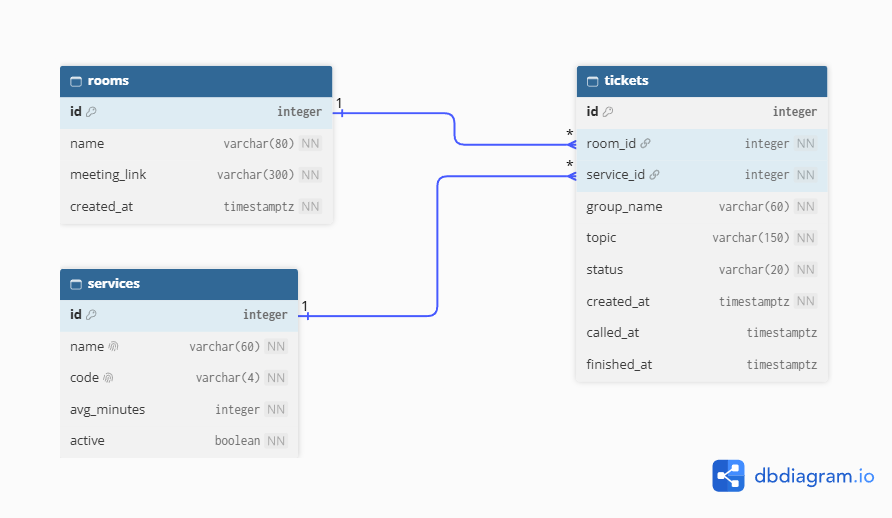
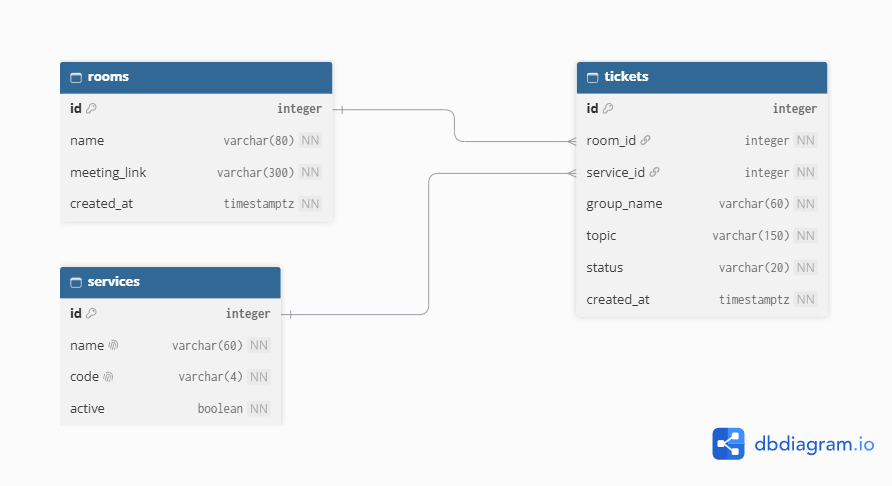
finished self-review of schema (#3)

diff --git a/my-app/docs/week4/schema-review.md b/my-app/docs/week4/schema-review.md
@@ -1,0 +1,76 @@
+# ClassQ schema self-review (Week 4)
+
+I reviewed [`schema.md`](schema.md) as if someone else had drawn it, using the six questions from the assignment. The changes below are already applied to `schema.md`, `classq.dbml` and the ERD.
+
+---
+
+## Question 1: Coverage
+
+Every requirement with **Stores data? = Yes** and still planned has a table or column. I also checked each Week 3 persona task to verify the coverage:
+
+| Persona task | Data it needs | Where |
+| --- | --- | --- |
+| Marcus: join with group name, topic and service | name, topic, service | `tickets.group_name`, `tickets.topic`, `tickets.service_id` |
+| Marcus: see his place and status | status, order of joining | `tickets.status`, `tickets.created_at` |
+| Marcus: open the call when called | meeting link | `rooms.meeting_link`, reached through `tickets.room_id` |
+| Marcus: leave the queue | a "left" state | `tickets.status` |
+| Sir Bustos: view the queue in order of arrival | joining time | `tickets.created_at` |
+| Sir Bustos: call the next group | status | `tickets.status` |
+| Sir Bustos: mark served or no-show | status | `tickets.status` |
+| Sir Bustos: manage services and the meeting link | service fields, link | `services.*`, `rooms.meeting_link` |
+
+## Question 2: One fact in one place
+
+A service's name and code exist only in `services`, and the meeting link only in `rooms`. A group's name and topic are repeated on every ticket the group creates, **on purpose**, because they describe each visit and can differ every time. I found no other duplicates.
+
+## Question 3: Facts, not results
+
+There is no stored position or "people ahead" count. They are computed from `status` and `created_at` when the page is built.
+
+## Question 4: Bad data
+
+| Mistake a persona could make | What stops it |
+| --- | --- |
+| Marcus taps *Enter Queue* twice, or opens a second tab | The disabled button (Week 3) **and** the unique index on active group names (entry 3) |
+| Leaves the name blank, or types only spaces | `CHECK (length(trim(group_name)) > 0)`, plus Flask validation |
+| Types a topic far too long | `varchar(150)` |
+| Picks the wrong service | **Nothing in the database can know the intent.** The foreign key only proves the service exists. The disabled "Choose Service..." option and the service shown on his ticket let him notice it. |
+| Sir Bustos saves a meeting link with a typo such as `meet.google.com/abc` | `CHECK (meeting_link ~ '^https?://')` catches a missing `http(s)://` but not a wrong address |
+| Two services with the same name or code | `UNIQUE` on `services.name` and `services.code` |
+| A ticket gets a status the app does not know | `CHECK (status IN (...))` |
+
+## Question 5: Deletes
+
+All foreign keys are `RESTRICT`, on purpose: a service or room that has tickets cannot be removed, so old tickets cannot lose their parent. But the *app* can still erase history by deleting tickets (entry 4).
+
+## Question 6: Types
+
+Every moment in time is a `timestamptz`. *Active* is a `boolean`, and nothing numeric is stored as text. The status is text, but a CHECK limits it to five values.
+
+---
+
+## Entries
+
+### Entry 1: Coverage
+
+> **Works well:** The nouns table traced every *Stores data? = Yes* requirement to a table or column, so I could see which table each feature writes to. <br>
+> **Problem:** `services.code` (the PD, LC, GR prefix in ticket labels) had no FR requirement behind it.<br>
+> **Change:** Added **FR-11** to `requirements.md` and to the nouns table in `schema.md`. The column stays.
+
+### Entry 2: Columns for a dropped requirement
+
+> **Works well:** Positions and counts are computed, never stored, so they cannot go out of date when someone leaves the line. <br>
+> **Problem:** My first draft stored `services.avg_minutes`, `tickets.called_at` and `tickets.finished_at`, and a CHECK to keep them in step with `status`. All of them existed only for the estimated countdown (FR-07), which I then dropped. Nothing would ever read them. Found by questions 1 and 3. <br>
+> **Change:** Removed the three columns and the status/time CHECK from `schema.md` and `classq.dbml`. `status` alone says where a ticket is. If I ever bring back the countdown, I will add the columns with a migration, which is the safe way to change a table that already holds data.
+
+### Entry 3: Double tap
+
+> **Works well:** CHECKs on the group name, topic, meeting link and status stop the empty or impossible values my personas are most likely to type. <br>
+> **Problem:** Dropping the email in Part 2 also dropped my protection against the same person joining twice. The Week 3 disabled button only works in the browser, so a second tab or a retry could still create two tickets. Found by question 4. <br>
+> **Change:** Added the partial unique index `ux_tickets_active_group_name` (`UNIQUE (room_id, lower(group_name)) WHERE status IN ('waiting', 'called')`). A group name can only be in line once at a time, and it is free again as soon as its ticket is finished. The trade-off is that two real groups with the same name cannot be in line together, which I accept, since the teacher could not tell them apart anyway. Flask will show "That group is already in the queue." when it happens.
+
+### Entry 4: Deletes that destroy history
+
+> **Works well:** `RESTRICT` on every foreign key means a service or room that has tickets cannot be removed by mistake, so staff reports keep their data. <br>
+> **Problem:** The delete rules protect the *parents*, but the app deletes the *children*. **Delete** (FR-10) and Week 3's **Clear Queue** both erase tickets, including served and no-show ones that later reports could need. Found by question 5. <br>
+> **Change:** I kept the schema as it is. FR-10 stays, because it is for mistaken and test tickets and already asks for confirmation. **Clear Queue** changes in Part 9 to remove only tickets still *waiting* or *called*, so finished tickets stay as the session record, and its confirm text will say so.

diff --git a/my-app/docs/week4/schema.md b/my-app/docs/week4/schema.md
@@ -1,4 +1,4 @@
-# ClassQ schema design (Week 4)
+# ClassQ Schema Design
 
 Designed from the requirements marked **Stores data? = Yes** in [`docs/requirements.md`](../requirements.md).
 
@@ -14,10 +14,9 @@ Designed from the requirements marked **Stores data? = Yes** in [`docs/requireme
 | FR-04 | A teacher can **call the next** group. | called time | `tickets.status`, `tickets.called_at` |
 | FR-05 | A student sees real-time **status** updates on their **ticket**. | ticket, status | `tickets`, `tickets.status` |
 | FR-06 | A student can **leave** the queue, or a teacher can mark a ticket **served** or **no-show**. | status, finished time | `tickets.status` (adds `left`), `tickets.finished_at` |
-| FR-07 | An **estimated countdown** based on **average call duration**. | average duration | `services.avg_minutes`, *(computed from `called_at` and `finished_at`)* |
-| FR-08 | *(Dropped this semester.)* Export of queue **history** and **attendance**. | history, attendance | *(no new data: `tickets` already keeps every status and time)* |
 | FR-09 | A teacher can manage **services**: add, rename, set **average duration**, toggle **active**. | service, name, average duration, active | `services`, `services.name`, `services.avg_minutes`, `services.active` |
 | FR-10 | A teacher can permanently **delete** a mistaken ticket. | ticket | *(a hard delete of one `tickets` row; no new column)* |
+| FR-11 | *(Added in the Part 3 review.)* Every ticket **label** starts with its service **code** (PD, LC, GR). | label, code | `services.code` *(the label is built when needed, never stored)* |
 
 ---
 
@@ -26,8 +25,8 @@ Designed from the requirements marked **Stores data? = Yes** in [`docs/requireme
 | Table | Columns |
 | --- | --- |
 | `rooms` | id, name, meeting_link, created_at |
-| `services` | id, name, code, avg_minutes, active |
-| `tickets` | id, room_id, service_id, group_name, topic, status, created_at, called_at, finished_at |
+| `services` | id, name, code, active |
+| `tickets` | id, room_id, service_id, group_name, topic, status, created_at
 
 **Where the setting-specific fields went**:
 
@@ -48,8 +47,7 @@ Designed from the requirements marked **Stores data? = Yes** in [`docs/requireme
 | rooms | created_at | timestamptz | NOT NULL DEFAULT now() | Time zone safe; set by the database |
 | services | id | integer, generated always as identity | PRIMARY KEY | Generated by the database |
 | services | name | varchar(60) | NOT NULL UNIQUE | No two services with the same name (FR-09) |
-| services | code | varchar(4) | NOT NULL UNIQUE, CHECK (code ~ '^[A-Z]{2,4}$') | Short prefix for ticket labels; capital letters only |
-| services | avg_minutes | integer | NOT NULL DEFAULT 15, CHECK (avg_minutes > 0) | Rejects impossible call lengths (FR-07, FR-09) |
+| services | code | varchar(4) | NOT NULL UNIQUE, CHECK (code ~ '^[A-Z]{2,4}$') | Short prefix for ticket labels; capital letters only (FR-11) |
 | services | active | boolean | NOT NULL DEFAULT true | A service can be switched off without deleting its history (FR-09) |
 | tickets | id | integer, generated always as identity | PRIMARY KEY | The ticket number: the database hands out every number once, so no duplicates (NFR-06) |
 | tickets | room_id | integer | NOT NULL, FOREIGN KEY → rooms(id) ON DELETE RESTRICT | A ticket always belongs to a room |
@@ -58,8 +56,10 @@ Designed from the requirements marked **Stores data? = Yes** in [`docs/requireme
 | tickets | topic | varchar(150) | NOT NULL, CHECK (length(trim(topic)) > 0) | Matches the 150-character limit in the join form (FR-02) |
 | tickets | status | varchar(20) | NOT NULL DEFAULT 'waiting', CHECK (status IN ('waiting', 'called', 'served', 'no-show', 'left')) | Only the five states the app uses (FR-03, FR-04, FR-06) |
 | tickets | created_at | timestamptz | NOT NULL DEFAULT now() | When the group joined: the order of the line |
-| tickets | called_at | timestamptz | NULL | Empty until the ticket is called (FR-04) |
-| tickets | finished_at | timestamptz | NULL, CHECK (finished_at >= called_at) | Empty until served or no-show; with `called_at` it gives call length (FR-07). A NULL passes the check. |
+
+| Table | Rule | Definition | Why |
+| --- | --- | --- | --- |
+| tickets | `ux_tickets_active_group_name`: one active ticket per group name in a room | `UNIQUE (room_id, lower(group_name)) WHERE status IN ('waiting', 'called')` | A double tap or a second tab cannot put the same group in line twice. A group name is free again once its ticket is finished. |
 
 ---
 

diff --git a/my-app/docs/requirements.md b/my-app/docs/requirements.md
@@ -22,6 +22,7 @@
 | FR-08 | As a teacher, I want to export session queue history and attendance logs to CSV so that I have records for grading. | Won't  | **Yes** | Dropped |
 | FR-09 ★ | As a teacher, I want to manage service tracks (add, rename, and toggle active/inactive). | Must | **Yes** | This week |
 | FR-10 | As a teacher, I want to permanently delete mistaken or test tickets from the dashboard. | Must | **Yes** | This week |
+| FR-11 | Every ticket label starts with its service code | Should | **Yes** | Built (Week 3) |
 
 *Note: Requirements marked with ★ denote setting-specific features tailored to academic consultation queues.*
 
